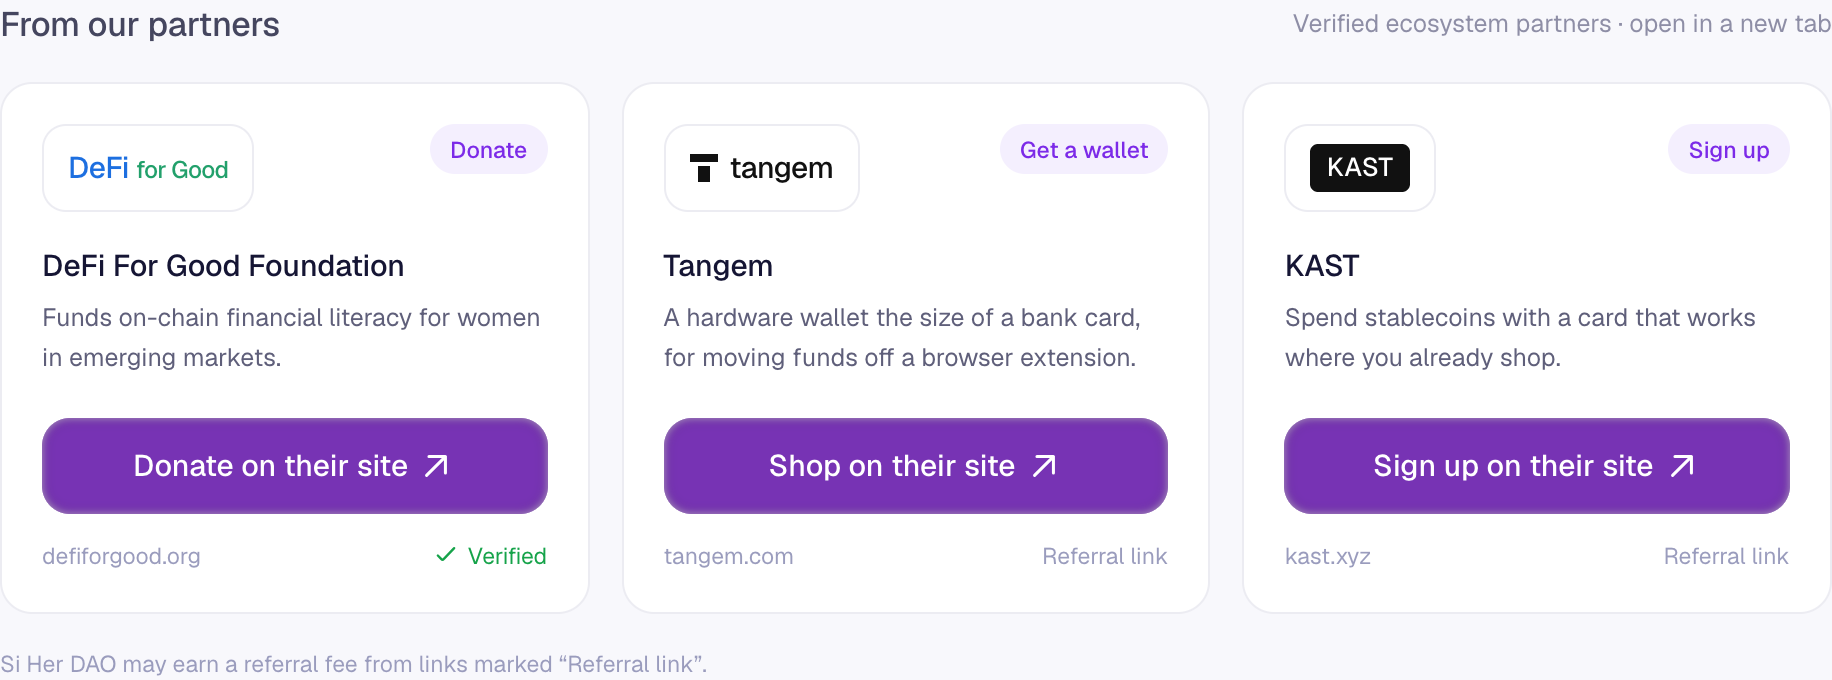
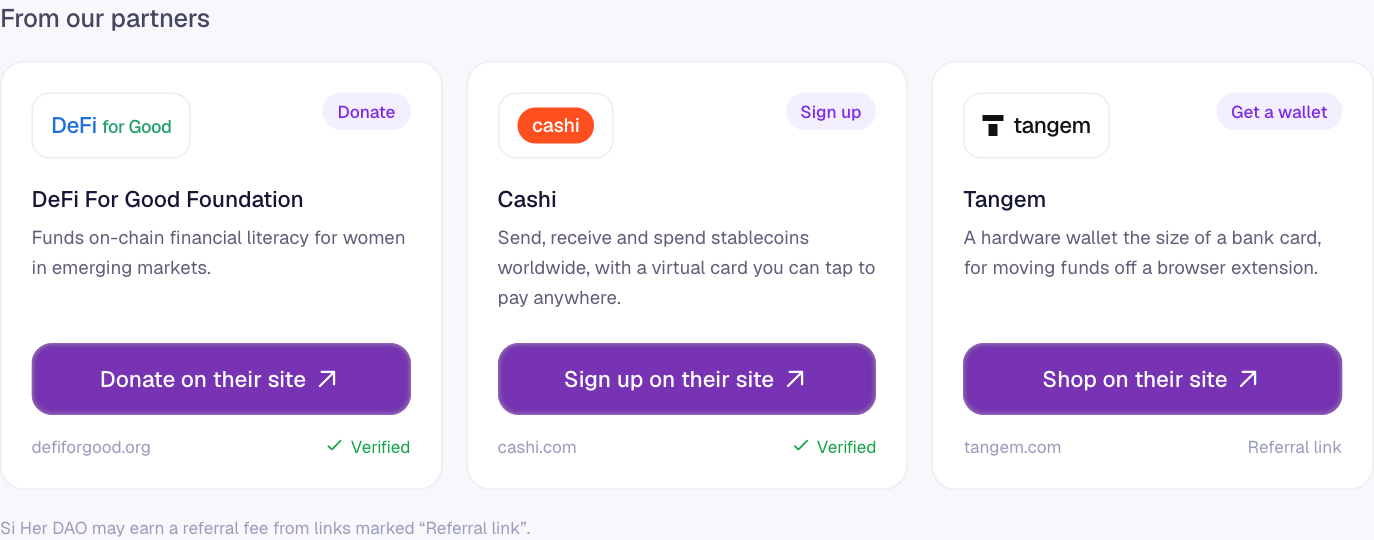
Partners: Cashi replaces KAST (2nd), Tangem 3rd; remove section subtitle

diff --git a/src/app/(app)/dashboard/page.tsx b/src/app/(app)/dashboard/page.tsx
@@ -302,7 +302,7 @@ function ReadyToMint() {
 const PARTNER_MARK: Record<string, React.ReactNode> = {
   'partner-defi-for-good-foundation': <span className="text-[15px] font-medium tracking-[-0.02em]"><span className="text-[#1d6fe0]">DeFi</span> <span className="text-[12px] text-[#22a06b]">for Good</span></span>,
   'partner-tangem': <span className="flex items-center gap-1.5 text-[15px] font-medium tracking-[-0.02em] text-[#111]"><span className="grid h-3.5 w-3.5 grid-rows-[1fr_2fr] gap-[2px]" aria-hidden="true"><span className="bg-[#111]" /><span className="mx-auto w-1.5 bg-[#111]" /></span>tangem</span>,
-  'partner-kast': <span className="rounded bg-[#111] px-2 py-0.5 text-[13px] font-medium tracking-[0.02em] text-white">KAST</span>,
+  'partner-cashi': <span className="rounded-full bg-[#ff4f1f] px-2.5 py-0.5 text-[13px] font-medium tracking-[-0.01em] text-white">cashi</span>,
 };
 const domain = (url: string) => { try { return new URL(url).hostname.replace(/^www\./, ''); } catch { return url; } };
 
@@ -496,7 +496,6 @@ export default function DashboardPage() {
         <section className="space-y-4">
           <div className="flex items-center justify-between">
             <h2 className={sectionTitle}>From our partners</h2>
-            <span className="text-[12.5px] text-[#8e8ea6]">Verified ecosystem partners · open in a new tab</span>
           </div>
           <div className="grid grid-cols-1 gap-4 sm:grid-cols-2 lg:grid-cols-3">{partners.map((p) => <PartnerCard key={p.id} p={p} />)}</div>
           {partners.some((p) => /referral/i.test(p.footerText)) && <p className="text-[11.5px] text-[#9a9cbd]">Si Her DAO may earn a referral fee from links marked “Referral link”.</p>}

diff --git a/docs/handoff/02-dashboard/README.md b/docs/handoff/02-dashboard/README.md
@@ -103,3 +103,4 @@ Screenshot: `after-partners.jpg` (desktop 3-up, mobile stacked).
 - One line under the grid explains referral links: "Si Her DAO may earn a referral fee from links marked 'Referral link'."
 - 3 columns on desktop, 2 on tablet, 1 on mobile. Logos are text wordmarks in the prototype; add a logo image field to the CMS for production.
 - **CTA update:** each partner action is now **Button · Primary** (full width, `ButtonLink external`). External button links show the arrow pointing up-right (`.btn-primary__icon--out`), everywhere they're used (`after-partners-cta.png`).
+- **Order and partners (Kara, Oct 12):** DeFi For Good Foundation · **Cashi** (replaces KAST; "Sign up", https://cashi.com/, "Send, receive and spend stablecoins worldwide, with a virtual card you can tap to pay anywhere.") · Tangem. The subtitle "Verified ecosystem partners · open in a new tab" next to the heading is removed. Cashi is marked Verified (no referral link) until we know otherwise.
